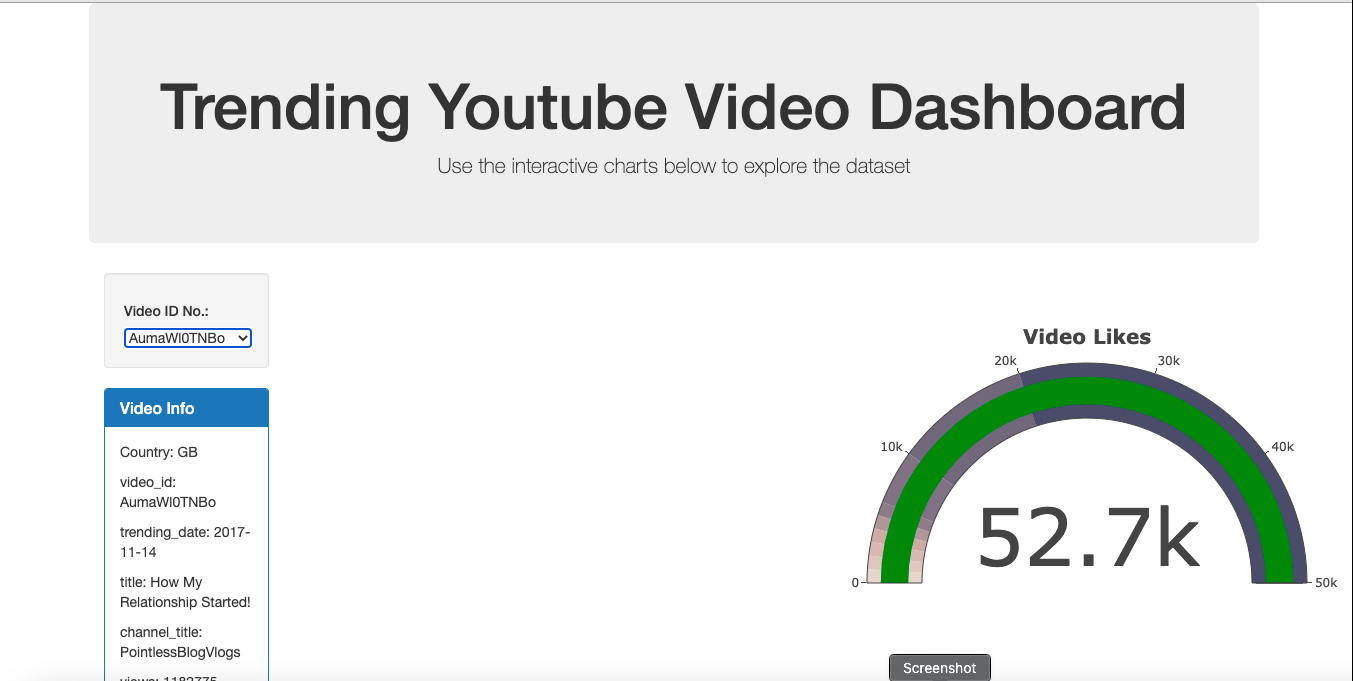
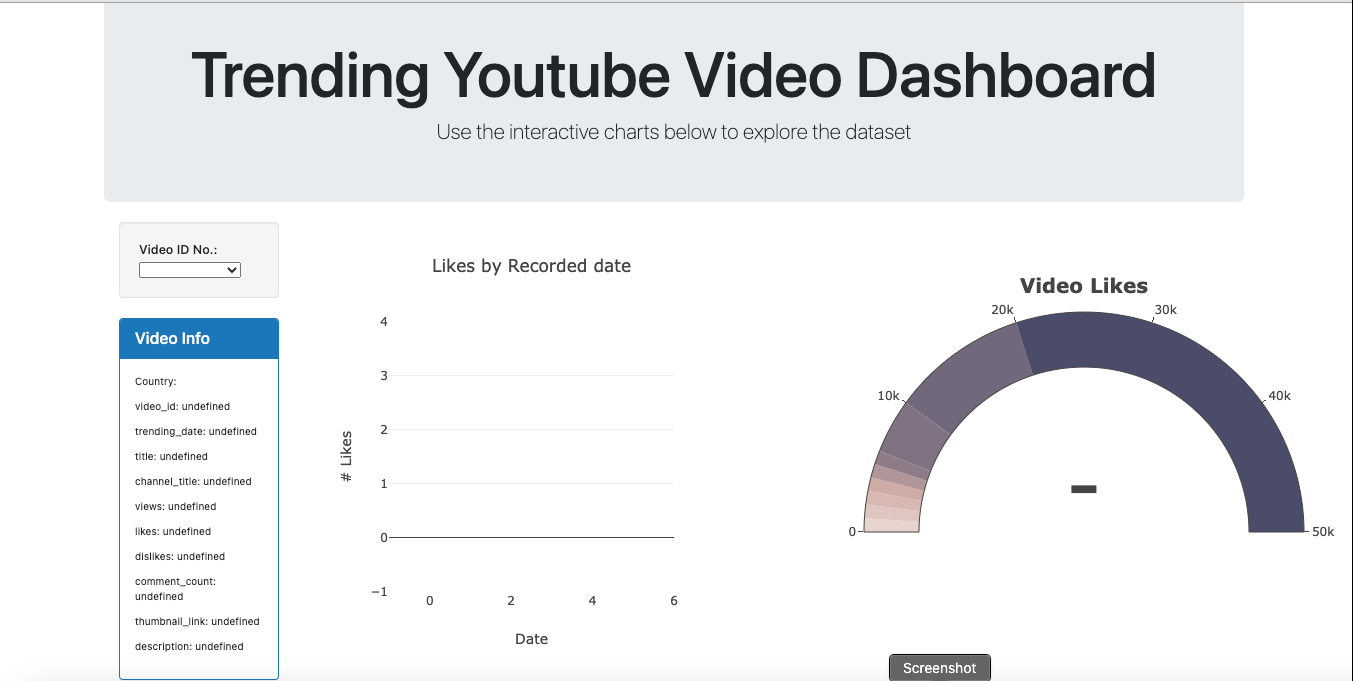
josh sublast

diff --git a/josh_template/dash.js b/josh_template/dash.js
@@ -37,11 +37,14 @@ function optionChanged(selectID){
   const barDisplay = d3.select("#bar");
   barDisplay.html(""); 
 
+  var x_display = dropdown_data[0].trending_date;
+  var y_display = dropdown_data[0].likes;
+
   const trace = {
-    y: dropdown_data[0].video_id,
-    x: dropdown_data[0].likes,
+    y: x_display,
+    x: y_display,
     type: 'bar',
-   //  orientation: "h",
+    // orientation: "h"
    //  text:  otu_labels,
    //  marker: {
    //     color: 'green',
@@ -51,43 +54,14 @@ function optionChanged(selectID){
    //   }
     },
     layout = {
-    title: 'Top 10 OTUs found per Individual',
-    xaxis: {title: '# of Samples Collected'},
-    yaxis: {title: 'OTU ID'}
+    title: 'Likes by Recorded date',
+    xaxis: {title: 'Date'},
+    yaxis: {title: '# Likes'}
     };
 
     // Plot using Plotly
     Plotly.newPlot('bar', [trace], layout);    
      
-// // BUBBLE CHART
-
-// // Remove Sample value and otuID from individual
-// var sampleValue1 = sample_id[0].sample_values;
-// var otuID= sample_id[0].otu_ids;
-
-// // Define the layout and trace object, edit color and orientation
-// var trace1 = {
-//   x: otuID,
-//   y: sampleValue1,
-//   mode: 'markers',
-//   marker: {
-//     color: 'blue',
-    
-//     size: sampleValue1
-//   }
-// },
-
-// layout1 = {
-//   title: 'Bubble Chart For Each Sample',
-//   xaxis: {title: 'OTU ID'},
-//   yaxis: {title: '# of Samples Collected'},
-//   showlegend: false,
-//   height: 800,
-//   width: 1800
-//   };
-  
-// // Plot using Plotly
-// Plotly.newPlot('bubble', [trace1], layout1);
 
 // GAUGE CHART
 

diff --git a/dash.html b/dash.html
@@ -43,9 +43,9 @@
     </div>
 </nav>
 <header style="padding-top: 25px; text-align: center ;">
-  <h1>Youtube Views Analyzed</h1>
-  <h2>Welcome to our finds on Youtube views from US and GB</h2>
-</header>
+            <h1>Youtube Videos Analyzed</h1>
+            <h2>Welcome to our finds on Youtube views from US and GB</h2>
+        </header>
   <div class="container">
     <div class="row">
       <div class="col-md-12 jumbotron text-center">
